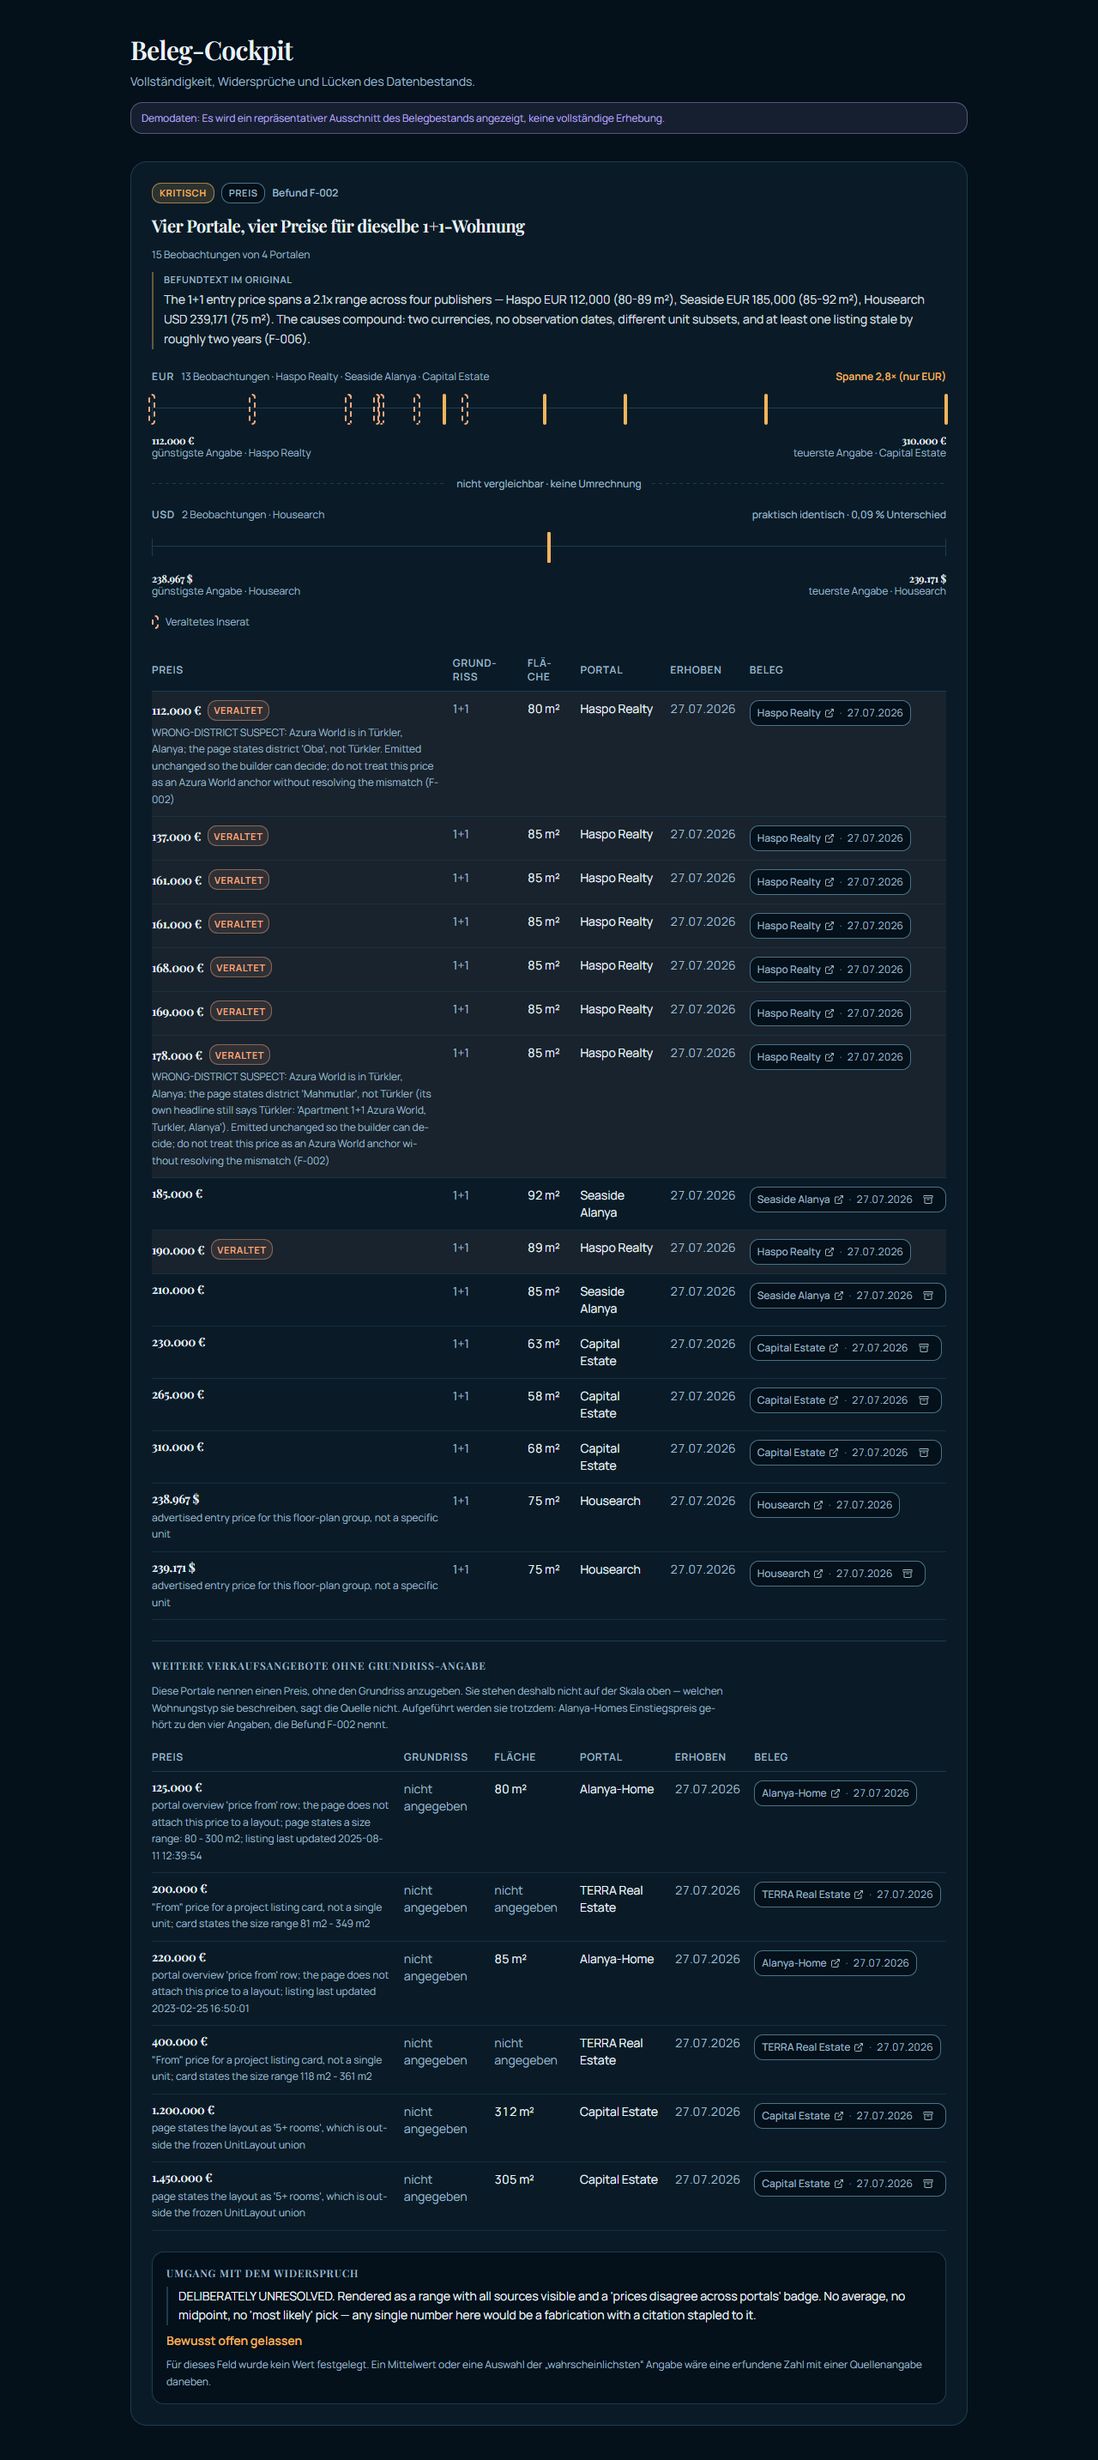
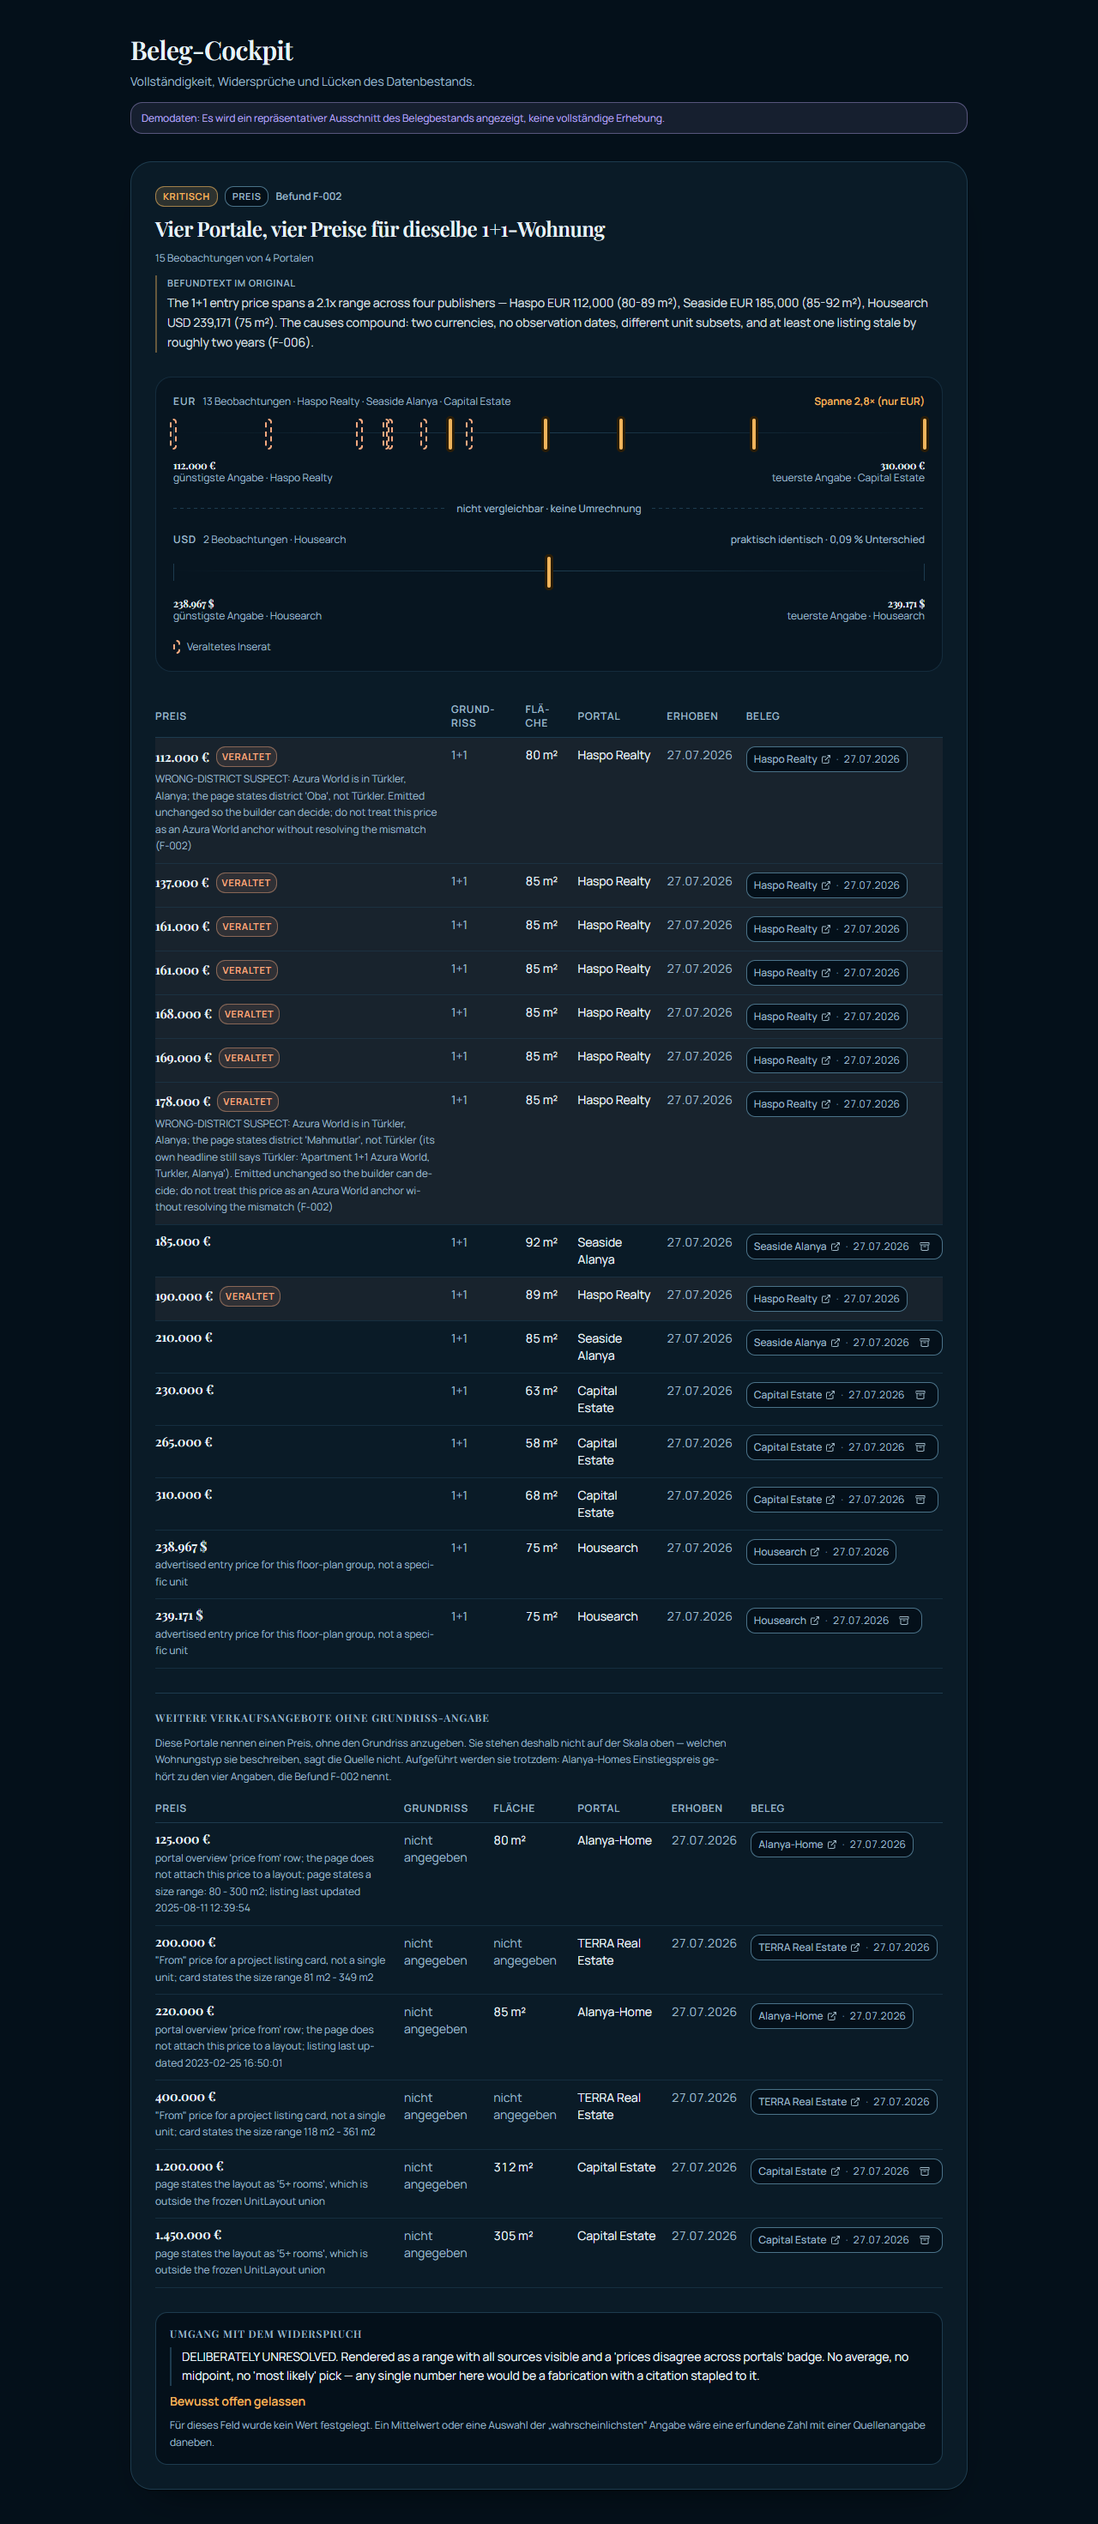
INTERNAL-107 W3-C: craft pass on the F-002 panel
Premium on a forensic surface means material, type and one earned motion
moment - not decoration. Emil's frequency test disqualifies most animation
here: an analyst opens this screen repeatedly, and repeated animation reads as
lag rather than luxury.

Material and type: the ladder sits in a recessed well instead of flat on the
card; two shadows on the panel because a single blurred drop reads as a
sticker; size-specific tracking in em (heading -0.018, figures -0.01,
micro-labels +0.06); a gradient axis that stops competing with the panel
border; a halo on fresh ticks so eight overlapping Haspo observations stop
merging into a smear; a scroll-edge fade where the table is genuinely wider
than its container.

The one motion moment: ticks grow out of the axis in price order, 500ms,
50ms stagger, on W1-D's ease-out. A CSS transition with @starting-style, not
a keyframe - interruptible, off the main thread, and needing no change to a
globals.css this window does not own. Reduced motion switches it off
entirely rather than slowing it down.

Two defects the assertions caught and looking would not have:

- The stagger was 0.05ms. staggerDelay() returns seconds; I wrote ms. Thirteen
  ticks arrived simultaneously while the code claimed a cascade. The check now
  requires the delays to differ by >=20ms AND increase.
- The reduced-motion check tested transition-duration, which Tailwind leaves at
  1e-05s after transition-none. It would have passed a still-animating element.
[…]

diff --git a/apps/web/components/inventory/price-observation-table.tsx b/apps/web/components/inventory/price-observation-table.tsx
@@ -117,12 +117,17 @@ export function PriceObservationTable({
     //                 invisible. `overflow: hidden` alone does NOT fix it;
     //                 measured both ways.
     //   `max-w-full`— belt and braces against a future grid ancestor.
-    <div
-      className={cn(
-        "azura-scrollbar-slim relative min-w-0 max-w-full overflow-x-auto",
-        className
-      )}
-    >
+    <div className={cn("relative min-w-0 max-w-full", className)}>
+      {/* A scroll edge, not a divider (apple-design §12). Below `lg` the 44rem
+          table is wider than the panel, and without a cue the clipped right-hand
+          columns simply look absent. A soft fade says "there is more this way"
+          without spending a row of chrome on saying it. `pointer-events-none`
+          so it never eats a click on the last column. */}
+      <div
+        aria-hidden="true"
+        className="pointer-events-none absolute inset-y-0 right-0 z-10 w-12 bg-gradient-to-l from-card to-transparent lg:hidden"
+      />
+      <div className="azura-scrollbar-slim relative min-w-0 max-w-full overflow-x-auto">
       <table className="w-full min-w-[44rem] border-collapse text-sm">
         <caption className="sr-only">{labels.caption}</caption>
         <thead>
@@ -157,12 +162,25 @@ export function PriceObservationTable({
                 data-stale={observation.stale}
                 className={cn(
                   "border-b border-border/60 align-top",
+                  // Hover gated behind a real pointer. A touch device fires
+                  // hover on tap and the row would latch highlighted after the
+                  // finger leaves — Emil's checklist, and it is the difference
+                  // between a table that feels responsive and one that feels
+                  // stuck. `transition-colors`, never `transition: all`.
+                  "transition-colors duration-150 ease-[var(--ease-out)]",
+                  "[@media(hover:hover)_and_(pointer:fine)]:hover:bg-muted/40",
                   observation.stale && "bg-quality-stale/[0.06]"
                 )}
               >
                 <td className="py-2.5 pr-4">
                   <span className="flex flex-wrap items-center gap-2">
-                    <span data-numeric className="font-display font-semibold">
+                    {/* The figure is the row's subject, so it gets the display
+                        face, a size step up, and the negative tracking that
+                        keeps large numerals from reading loose. */}
+                    <span
+                      data-numeric
+                      className="font-display text-[0.9375rem] font-semibold tracking-[-0.01em]"
+                    >
                       {formatMoney(observation.money, locale)}
                     </span>
                     {observation.stale ? (
@@ -220,7 +238,14 @@ export function PriceObservationTable({
                         target="_blank"
                         rel="noopener noreferrer"
                         title={`${labels.source.openSource}: ${observation.url}`}
-                        className="inline-flex min-h-6 min-w-0 items-center gap-1 rounded-sm font-medium outline-none hover:underline focus-visible:ring-2 focus-visible:ring-ring"
+                        className={cn(
+                          "inline-flex min-h-6 min-w-0 items-center gap-1 rounded-sm font-medium",
+                          // Press feedback. The interface has to visibly hear
+                          // the tap before the navigation happens, or the delay
+                          // reads as a dead control.
+                          "transition-transform duration-100 ease-[var(--ease-out)] active:scale-[0.97] motion-reduce:active:scale-100",
+                          "outline-none hover:underline focus-visible:ring-2 focus-visible:ring-ring"
+                        )}
                       >
                         <span className="truncate">{observation.publisher}</span>
                         <ExternalLink className="size-3 shrink-0" aria-hidden="true" />
@@ -237,8 +262,9 @@ export function PriceObservationTable({
               </tr>
             )
           })}
-        </tbody>
-      </table>
+          </tbody>
+        </table>
+      </div>
     </div>
   )
 }

diff --git a/apps/web/components/inventory/price-conflict-ladder.tsx b/apps/web/components/inventory/price-conflict-ladder.tsx
@@ -1,8 +1,8 @@
 import type { ReactNode } from "react"
 
 import { cn } from "@/lib/cn"
-import { formatMoney } from "@/components/evidence/format"
-import { interpolate } from "@/components/evidence/format"
+import { formatMoney, interpolate } from "@/components/evidence/format"
+import { staggerDelay } from "@/lib/motion"
 import type { Money } from "@/lib/contracts"
 
 /**
@@ -211,7 +211,7 @@ function LadderRail({
 
       {/* The axis. Decoration: every tick below is real text in the table. */}
       <div aria-hidden="true" className="relative h-11 select-none">
-        <div className="absolute inset-x-0 top-5 h-px bg-border" />
+        <div className="absolute inset-x-0 top-5 h-px bg-gradient-to-r from-transparent via-border to-transparent" />
         {/* End caps, so an axis with one observation still reads as an axis. */}
         <div className="absolute left-0 top-3 h-5 w-px bg-border" />
         <div className="absolute right-0 top-3 h-5 w-px bg-border" />
@@ -235,16 +235,42 @@ function LadderRail({
               // express an arbitrary percentage per tick, and the CSP allows
               // inline STYLES (`style-src 'self' 'unsafe-inline'`) while
               // forbidding inline scripts — so this costs nothing.
-              style={{ left: `${left}%` }}
+              // Both values are data, so both are inline. The CSP allows inline
+              // STYLES (`style-src 'self' 'unsafe-inline'`) while forbidding
+              // inline scripts, so this costs nothing.
+              //
+              // `staggerDelay` caps its accumulation (W1-D's STAGGER_CAP), so
+              // thirteen ticks still finish arriving in about half a second
+              // rather than marching across the screen for two.
+              style={{
+                left: `${left}%`,
+                // `staggerDelay` returns SECONDS — W1-D's `stagger.base` is
+                // 0.05, sized for Framer Motion, which takes seconds. Writing
+                // `${…}ms` produced a 0.05ms stagger: thirteen ticks arriving
+                // simultaneously while the code claimed a cascade. Caught by
+                // asserting the computed delays differ, not by looking at it.
+                transitionDelay: `${staggerDelay(index)}s`,
+              }}
               className={cn(
-                "absolute top-1 -translate-x-1/2",
+                "absolute top-1 -translate-x-1/2 origin-bottom",
+                // The one motion moment on this screen, and it is the data
+                // landing: each tick grows out of the axis, in price order.
+                // Emil's frequency test permits it — a page-load animation, not
+                // something triggered dozens of times a day — and
+                // `@starting-style` keeps it a pure CSS *transition*: off the
+                // main thread, interruptible, and needing no keyframe in
+                // globals.css, which this window does not own.
+                "transition-[opacity,transform] duration-500 ease-[var(--ease-out)]",
+                "opacity-100 scale-y-100 starting:opacity-0 starting:scale-y-[0.35]",
+                // Reduced motion gets the finished frame, never a slower one.
+                "motion-reduce:transition-none motion-reduce:opacity-100 motion-reduce:scale-y-100",
                 // Stale observations are a hollow, dashed, taller mark — a
                 // difference in SHAPE, not only in colour. One man in twelve
                 // cannot use the colour, and a screenshot in a report loses it
                 // entirely (azura-ui-ux §5.5).
                 observation.stale
                   ? "h-9 w-2 rounded-full border-2 border-dashed border-quality-stale bg-transparent"
-                  : "h-9 w-1 rounded-full bg-confidence-conflicted"
+                  : "h-9 w-1 rounded-full bg-confidence-conflicted shadow-[0_0_0_3px_var(--color-surface-conflict)]"
               )}
             />
           )

diff --git a/apps/web/components/inventory/price-conflict-panel.tsx b/apps/web/components/inventory/price-conflict-panel.tsx
@@ -131,7 +131,14 @@ export function PriceConflictPanel({
         // `min-w-0` on the panel for the same reason as on the table inside it:
         // without it a flex/grid ancestor lets the widest child set the page
         // width, and the table stops being independently scrollable.
-        "flex min-w-0 flex-col gap-6 rounded-xl border border-border bg-card p-5 sm:p-6",
+        "flex min-w-0 flex-col gap-7 rounded-2xl border border-border bg-card p-5 sm:p-7",
+        // Material weight, per apple-design §12: a large surface should read as
+        // thicker than a chip. A tight contact shadow plus a wide, very soft
+        // ambient one — two shadows, because a single blurred drop reads as a
+        // sticker. Kept far below the strength that would make a data surface
+        // feel like a marketing card.
+        "shadow-[0_1px_2px_rgb(0_0_0/0.04),0_24px_48px_-32px_rgb(0_0_0/0.22)]",
+        "dark:shadow-[0_1px_2px_rgb(0_0_0/0.5),0_24px_48px_-28px_rgb(0_0_0/0.65)]",
         className
       )}
     >
@@ -157,9 +164,13 @@ export function PriceConflictPanel({
           </span>
         </div>
 
+        {/* Tracking is size-specific (apple-design §15): display type reads too
+            loose as it grows, so it tightens; the uppercase micro-labels above
+            open up instead. A single letter-spacing value would be wrong at one
+            end or the other. In `em`, never `px`, so it holds at every size. */}
         <h2
           id={`finding-${finding.id}-heading`}
-          className="font-display text-lg leading-snug font-semibold sm:text-xl"
+          className="font-display text-xl font-semibold leading-[1.15] tracking-[-0.018em] text-balance sm:text-2xl"
         >
           {labels.headline}
         </h2>
@@ -190,12 +201,19 @@ export function PriceConflictPanel({
         </figure>
       </header>
 
-      {/* 2. The shape. */}
-      <PriceConflictLadder
-        observations={observations}
-        locale={locale}
-        labels={labels.ladder}
-      />
+      {/* 2. The shape.
+          Set into a recessed well rather than sitting flat on the card. One
+          level of layering is what separates "a page with a chart on it" from
+          "an instrument" — and it also does real work, grouping the two rails
+          and their separator into a single object the eye reads as one
+          comparison. */}
+      <div className="rounded-xl border border-border/60 bg-background/50 p-4 sm:p-5">
+        <PriceConflictLadder
+          observations={observations}
+          locale={locale}
+          labels={labels.ladder}
+        />
+      </div>
 
       {/* 3. The record. */}
       <PriceObservationTable

diff --git a/HANDOFF/W3-C.md b/HANDOFF/W3-C.md
@@ -78,7 +78,7 @@ counts and distributions, not rows — and it is the obvious next piece of work.
 | `pnpm --dir apps/web build` | **PASS** | exit 0; `├ ƒ /[locale]/dashboard/evidence` — **dynamic**, as W-INT §8 requires |
 | `node scripts/check-i18n.mjs` | **PASS** | 625 keys × 4 locales, identical key sets, 0 errors 0 warnings |
 | `node scripts/csp-probe.mjs` (`qa:csp`) | **PASS** | **21 pass · 0 fail**, exit 0, on a production build with this route present |
-| `node scripts/evidence-review.mjs` | **PASS** | **40 pass · 0 fail**, exit 0, real Chromium |
+| `node scripts/evidence-review.mjs` | **PASS** | **48 pass · 0 fail**, exit 0, real Chromium |
 
 Screenshots in `quality/w3c/`: `evidence-f002-de-light.png`, `-de-dark.png`, `-de-320.png`,
 `-en-light.png`.
@@ -108,6 +108,54 @@ Screenshots in `quality/w3c/`: `evidence-f002-de-light.png`, `-de-dark.png`, `-d
   `check-i18n`, but only `de` and `en` were rendered. Russian runs ~35% longer than English and
   320px Russian is the case most likely to break.
 - **Lighthouse, LCP, INP, CLS** — `qa:perf` is W4-B's and does not exist.
+
+---
+
+## 3a. The craft pass — what "premium" was allowed to mean here
+
+A second pass took the surface to a higher finish. The constraint it worked inside is the one the
+brief set: **on this screen restraint is the credibility.** Emil Kowalski's own frequency test
+disqualifies most motion here — an analyst opens the evidence cockpit repeatedly, and repeated
+animation reads as lag, not luxury. So the budget went where it compounds on a data surface:
+material, type, and exactly one motion moment.
+
+| Change | Why |
+|---|---|
+| The ladder sits in a **recessed well** (`bg-background/50`, inset border) rather than flat on the card | One level of layering is what separates "a page with a chart on it" from an instrument. It also groups the two rails and their separator into a single object the eye reads as one comparison. |
+| **Two shadows** on the panel — a 1px contact shadow plus a wide, very soft ambient one | apple-design §12: a large surface should read as thicker than a chip. A single blurred drop reads as a sticker. |
+| **Size-specific tracking**: heading `-0.018em`, price figures `-0.01em`, uppercase micro-labels `+0.06em` | apple-design §15. One `letter-spacing` value is wrong at one end of the scale or the other. All in `em`, so it holds at every size. |
+| Axis line is a **gradient that fades at both ends** | It stops the axis reading as a hard container edge, which was competing with the panel border. |
+| Fresh ticks carry a **3px halo** in the conflict surface colour | Separates overlapping ticks — eight Haspo observations sit between 112k and 190k and were merging into a smear. |
+| **Scroll-edge fade** on the right of each table below `lg` | apple-design §12: a scroll edge, not a divider. Below `lg` the 44rem table is wider than the panel and the clipped columns simply looked absent. The fade says "there is more this way" without spending a row of chrome on it. |
+| Row hover gated behind `@media (hover: hover) and (pointer: fine)` | A touch device fires hover on tap and the row latches highlighted after the finger leaves. |
+| `active:scale-[0.97]` on every source link, 100ms | The interface must visibly hear the press before navigation happens. |
+
+### The one motion moment
+
+Each ladder tick **grows out of the axis in price order**, 500ms, `cubic-bezier(0.23, 1, 0.32, 1)`
+(W1-D's `--ease-out`, which is already Emil's strong curve), staggered 50ms. It is a page-load
+animation, not something a user triggers — and what it animates is the data arriving at its
+position, which is the one thing on this screen worth dramatising.
+
+Implemented as a **CSS transition with `@starting-style`**, not a keyframe:
+
+- interruptible and retargetable, per Emil's rule for anything dynamic;
+- runs off the main thread;
+- needs no `@keyframes` in `globals.css`, a file this window does not own;
+- degrades to "already visible" where `@starting-style` is unsupported.
+
+Under `prefers-reduced-motion: reduce` the transition is switched **off entirely**
+(`transition-property: none`) — the finished frame, never a slower journey to it.
+
+Both of these were caught by asserting, not by looking:
+
+1. **The stagger was 0.05ms.** `staggerDelay()` returns **seconds** (W1-D sized it for Framer
+   Motion); I wrote `${…}ms`. Thirteen ticks arrived simultaneously while the code claimed a
+   cascade. The assertion now requires the delays to differ by ≥ 20ms *and* increase — "they
+   differ" would have passed the broken version.
+2. **The reduced-motion assertion tested the wrong property.** Tailwind's `transition-none` leaves
+   a residual `transition-duration` (`1e-05s`), so `duration === 0` would have passed a still-
+   animating element. It now asserts `transition-property: none`.
 
 ---
 
